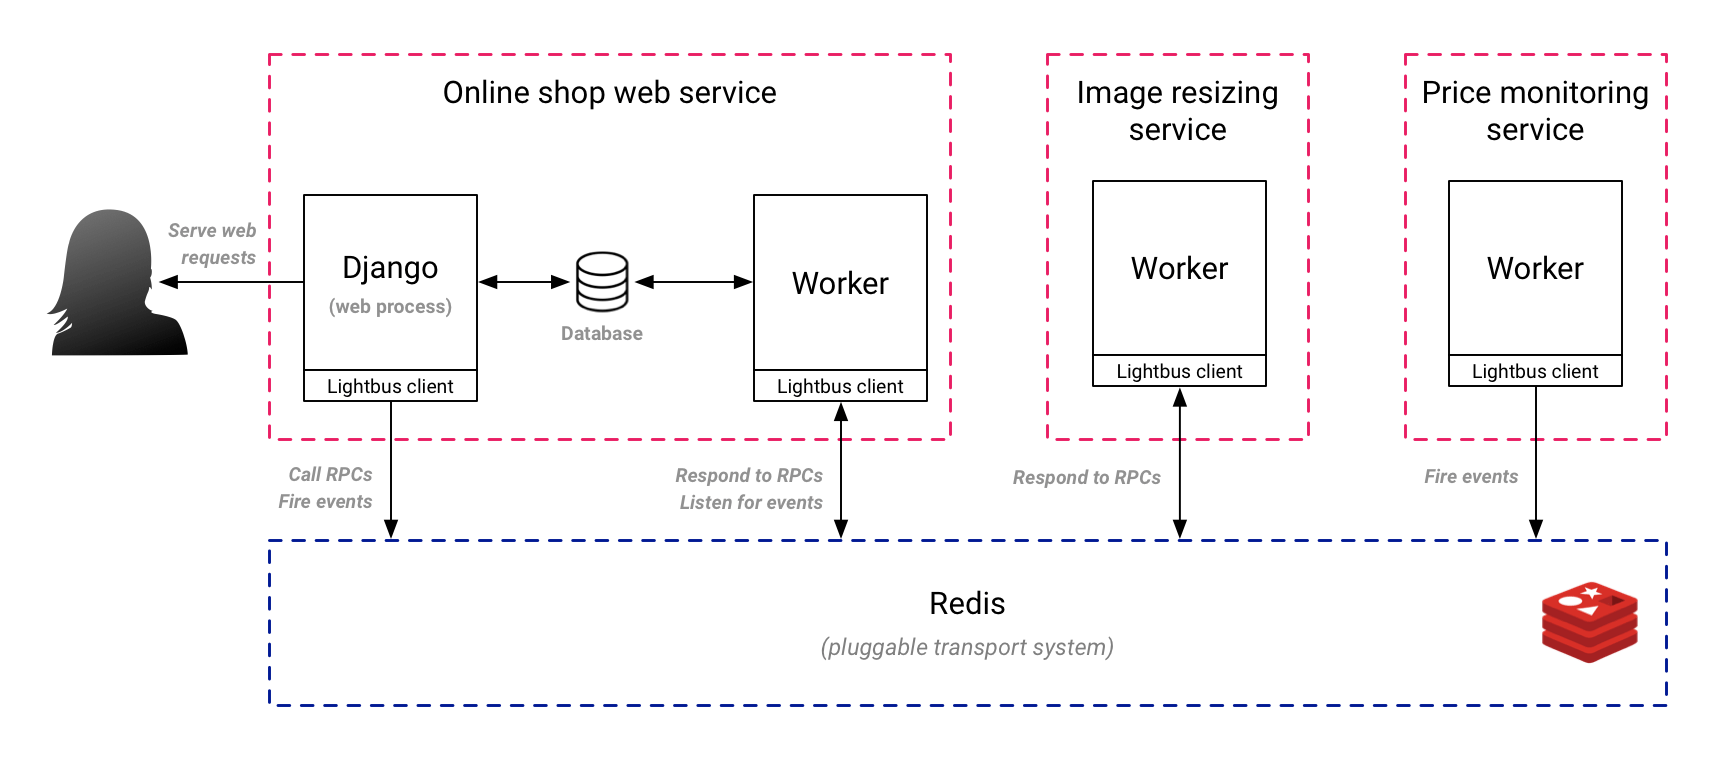
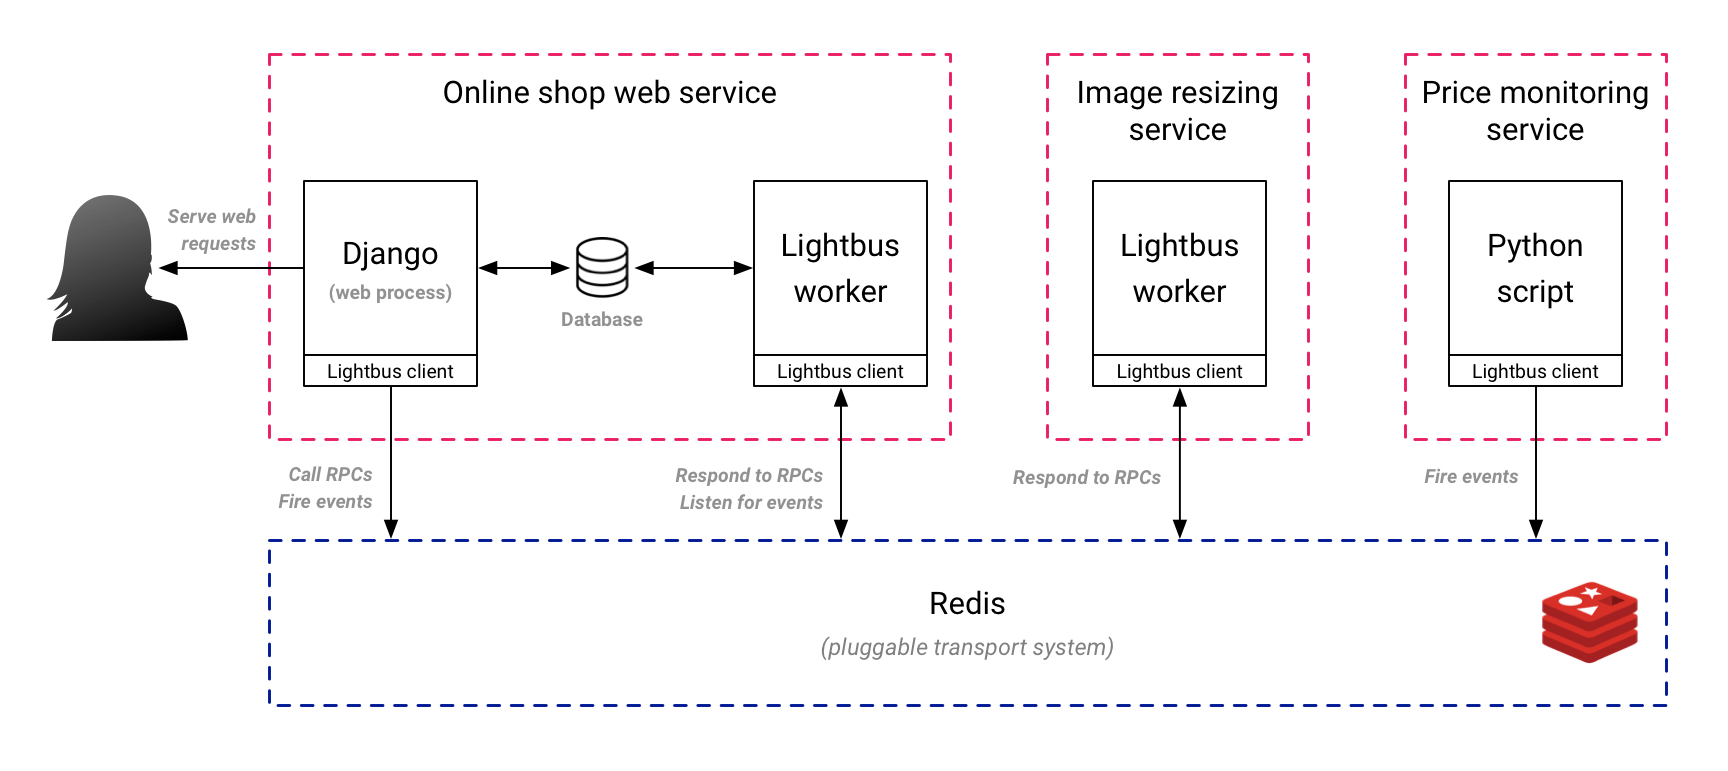
Work on docs: anatomy lesson & home page

diff --git a/docs/explanation/anatomy-lesson.md b/docs/explanation/anatomy-lesson.md
@@ -2,13 +2,16 @@
 
 Lightbus provides you with two tools:
 
-* A **client** with which to fire events and make remote procedure calls (RPCs).
-  This can be used from anywhere within your Python codebase.
-* A **stand-alone Lightbus process** which will listen for events,
-  and respond to remote procedure calls. These processes are long running,
-  and you will typically have one or more per [service].
+* A **client** with which to fire events, listen for events
+  and make remote procedure calls (RPCs).
+* A **stand-alone Lightbus worker process** in which you can setup
+  event listeners. This process will also respond to RPCs calls.
 
-You will need to make use of both when using Lightbus.
+
+
+![A simple Lightbus deployment][simple-processes]
+
+[simple-processes]: /static/images/simple-processes.png
 
 ## The client
 
@@ -40,9 +43,14 @@ You can use this client anywhere you need to, such as:
 * Within scheduled jobs
 * Within Lightbus event & RPC handlers (see below)
 
-## The Lightbus process
+## The Lightbus worker process (`lightbus run`)
 
-The Lightbus process listens for events and responds to
+The Lightbus worker is a long running process which serves two purposes:
+
+* Allows you to setup event listeners, and define functions to handle these events.
+* The worker will respond to RPC calls to procedures on the service's APIs.
+
+listens for events and responds to
 remote procedure calls. In order to set this up you must:
 
 1. Create a `bus.py` file. Within this file...
@@ -83,7 +91,7 @@ You start this process using the command:
 
 
 This will import a module named `bus` (your `bus.py` file) and wait
-for events and RPCs.
+for incoming events and RPC calls.
 
 While `bus` is the default module name, you can override it using the
 `LIGHTBUS_MODULE` environment variable,
@@ -91,7 +99,7 @@ or the `lightbus run --bus=...` option.
 
 **A service
 will only need a Lightbus process if it wishes to listen
-for events or provide any RPCs which can be called.**
+for [events] or provide any [RPCs] which can be called.**
 
 ## Addendum
 
@@ -110,3 +118,5 @@ Therefore only pursue this path if you are sure it suits your
 particular needs.
 
 [service]: concepts.md#service
+[events]: events.md
+[rpcs]: rpcs.md

diff --git a/docs/index.md b/docs/index.md
@@ -13,9 +13,19 @@ for other platforms may be added in future.
 
 **Lightbus is under active development and is still pre-release.**
 
-## Example Lightbus project
+## How Lightbus works
+
+Lightbus provides you with two tools:
+
+1. A **client** with which to fire events,
+  and make remote procedure calls (RPCs) from anywhere within your
+  codebase.
+1. A **stand-alone Lightbus worker process** in which you can setup
+  event listeners. This process will also respond to RPCs calls.
 
 ![A simple Lightbus deployment][simple-processes]
+
+See the [anatomy lesson] for further discussion.
 
 ## Designed for ease of use
 
@@ -91,3 +101,4 @@ ultimately look through both sections for a complete understanding.
 [simple-processes]: /static/images/simple-processes.png
 [tutorials]: /tutorial/index.md
 [explanation]: /explanation/index.md
+[anatomy lesson]: /explanation/anatomy-lesson.md

diff --git a/docs/tutorial/quick-start.md b/docs/tutorial/quick-start.md
@@ -89,8 +89,8 @@ received by any Lightbus service, which can include the owning service itself
 (as we do below).
 
 The owning service can be more accurately referred to as the
-*authoritative service*. The authoritative service is the service
-which contains the class definition within its codebase. Lightbus only
+*[authoritative] service* for the given API. The authoritative service is the service
+which contains the API's class definition within its codebase. Lightbus only
 allows the authoritative service to fire events for an API. Any service can
 listen for any event.
 
@@ -170,3 +170,4 @@ a more realistic scenario involving multiple services.
 [anatomy lesson]: /explanation/anatomy-lesson.md
 [concepts]: /explanation/concepts.md
 [worked example]: worked-example.md
+[authoritative]: /explanation/apis.md#authoritativenon-authoritative-apis

diff --git a/docs/explanation/events.md b/docs/explanation/events.md
@@ -6,7 +6,7 @@ other service at all. No return value is provided when firing an event.
 
 This is useful when:
 
-1. You wish to allow non-authoritative services to receive information without needing to concern yourself
+1. You wish to allow non-[authoritative] services to receive information without needing to concern yourself
    with their implementation
 2. You wish the authoritative service to perform a known task in the background
 
@@ -120,3 +120,4 @@ the will be picked up by another process.
 
 [service-level configuration]: /reference/configuration.md#2-service-level-configuration
 [how to write idempotent event handlers]: /howto/write-idempotent-event-handlers.md
+[authoritative]: /explanation/apis.md#authoritativenon-authoritative-apis
